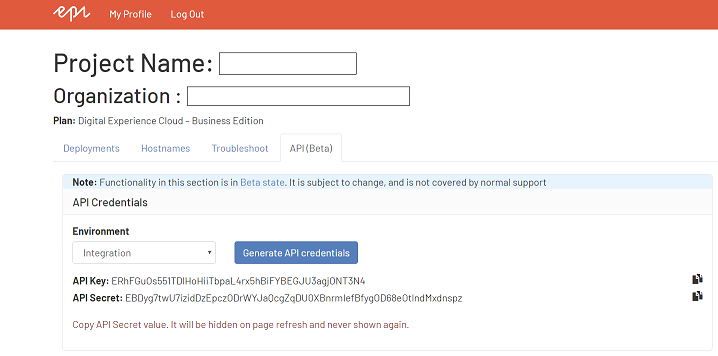
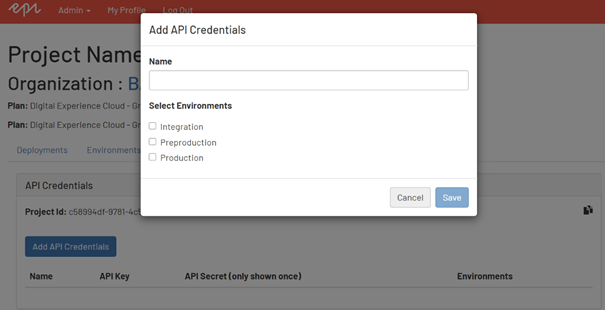
Update documentation for ClientKey, ClientSecret

diff --git a/documentation/CreateVariableGroup.md b/documentation/CreateVariableGroup.md
@@ -16,19 +16,15 @@ Allow access to all pipelines: `True`
 ### Variables
 The following variables need to exist.  
 * DXP.ProjectId
-* Integration.ClientKey
-* Integration.ClientSecret (Make as password variable)
+* ClientKey
+* ClientSecret (Make as password variable)
 * Integration.SlotUrl
 * Integration.Url
 * Integration.UrlSuffix
 * NuGetPackageNamePrefix
-* Preproduction.ClientKey
-* Preproduction.ClientSecret (Make as password variable)
 * Preproduction.SlotUrl
 * Preproduction.Url
 * Preproduction.UrlSuffix
-* Production.ClientKey
-* Production.ClientSecret (Make as password variable)
 * Production.SlotUrl
 * Production.Url
 * Production.UrlSuffix
@@ -40,10 +36,7 @@ Go to https://paas.episerver.net and login. When you are on the list page for al
 ![Paas project URL](Images/CreateVariableGroup/PaasProjectUrl.png)  
 
 ### ClientKey, ClientSecret
-Go back to https://paas.episerver.net and click on the link to the project that you setup the deploy for. On the project page you should click on the tab “API (Beta)”. Select the environment “Integration”/”Preproduction”/”Production” and click on the button “Generate API credentials”.  
-Copy the generated ClientKey to the variable “Integation.ClientKey”/”Preproduction.ClientKey”/”Production.ClientKey”.  
-Copy the generated ClientSecret to the variable “Integation.ClientSecret”/”Preproduction.ClientSecret”/”Production.ClientSecret”.   
-Repeat these steps so that you have generated a key and secret for each environment (Integration, Preproduction and Production) and copied to the corresponding variable.
+Go back to https://paas.episerver.net and click on the link to the project that you setup the deploy for. On the project page you should click on the tab “API (Beta)”. Click on the “Add API Credentials” and give it a name. Select all environments (Integration, Preproduction, Production). After clicked save you will receive a ClientKey and ClientSecret that you can copy to your variables.
 ![Generate API credentials](Images/CreateVariableGroup/GenAPICredentials.png)  
 
 ### SlotUrl, Url
